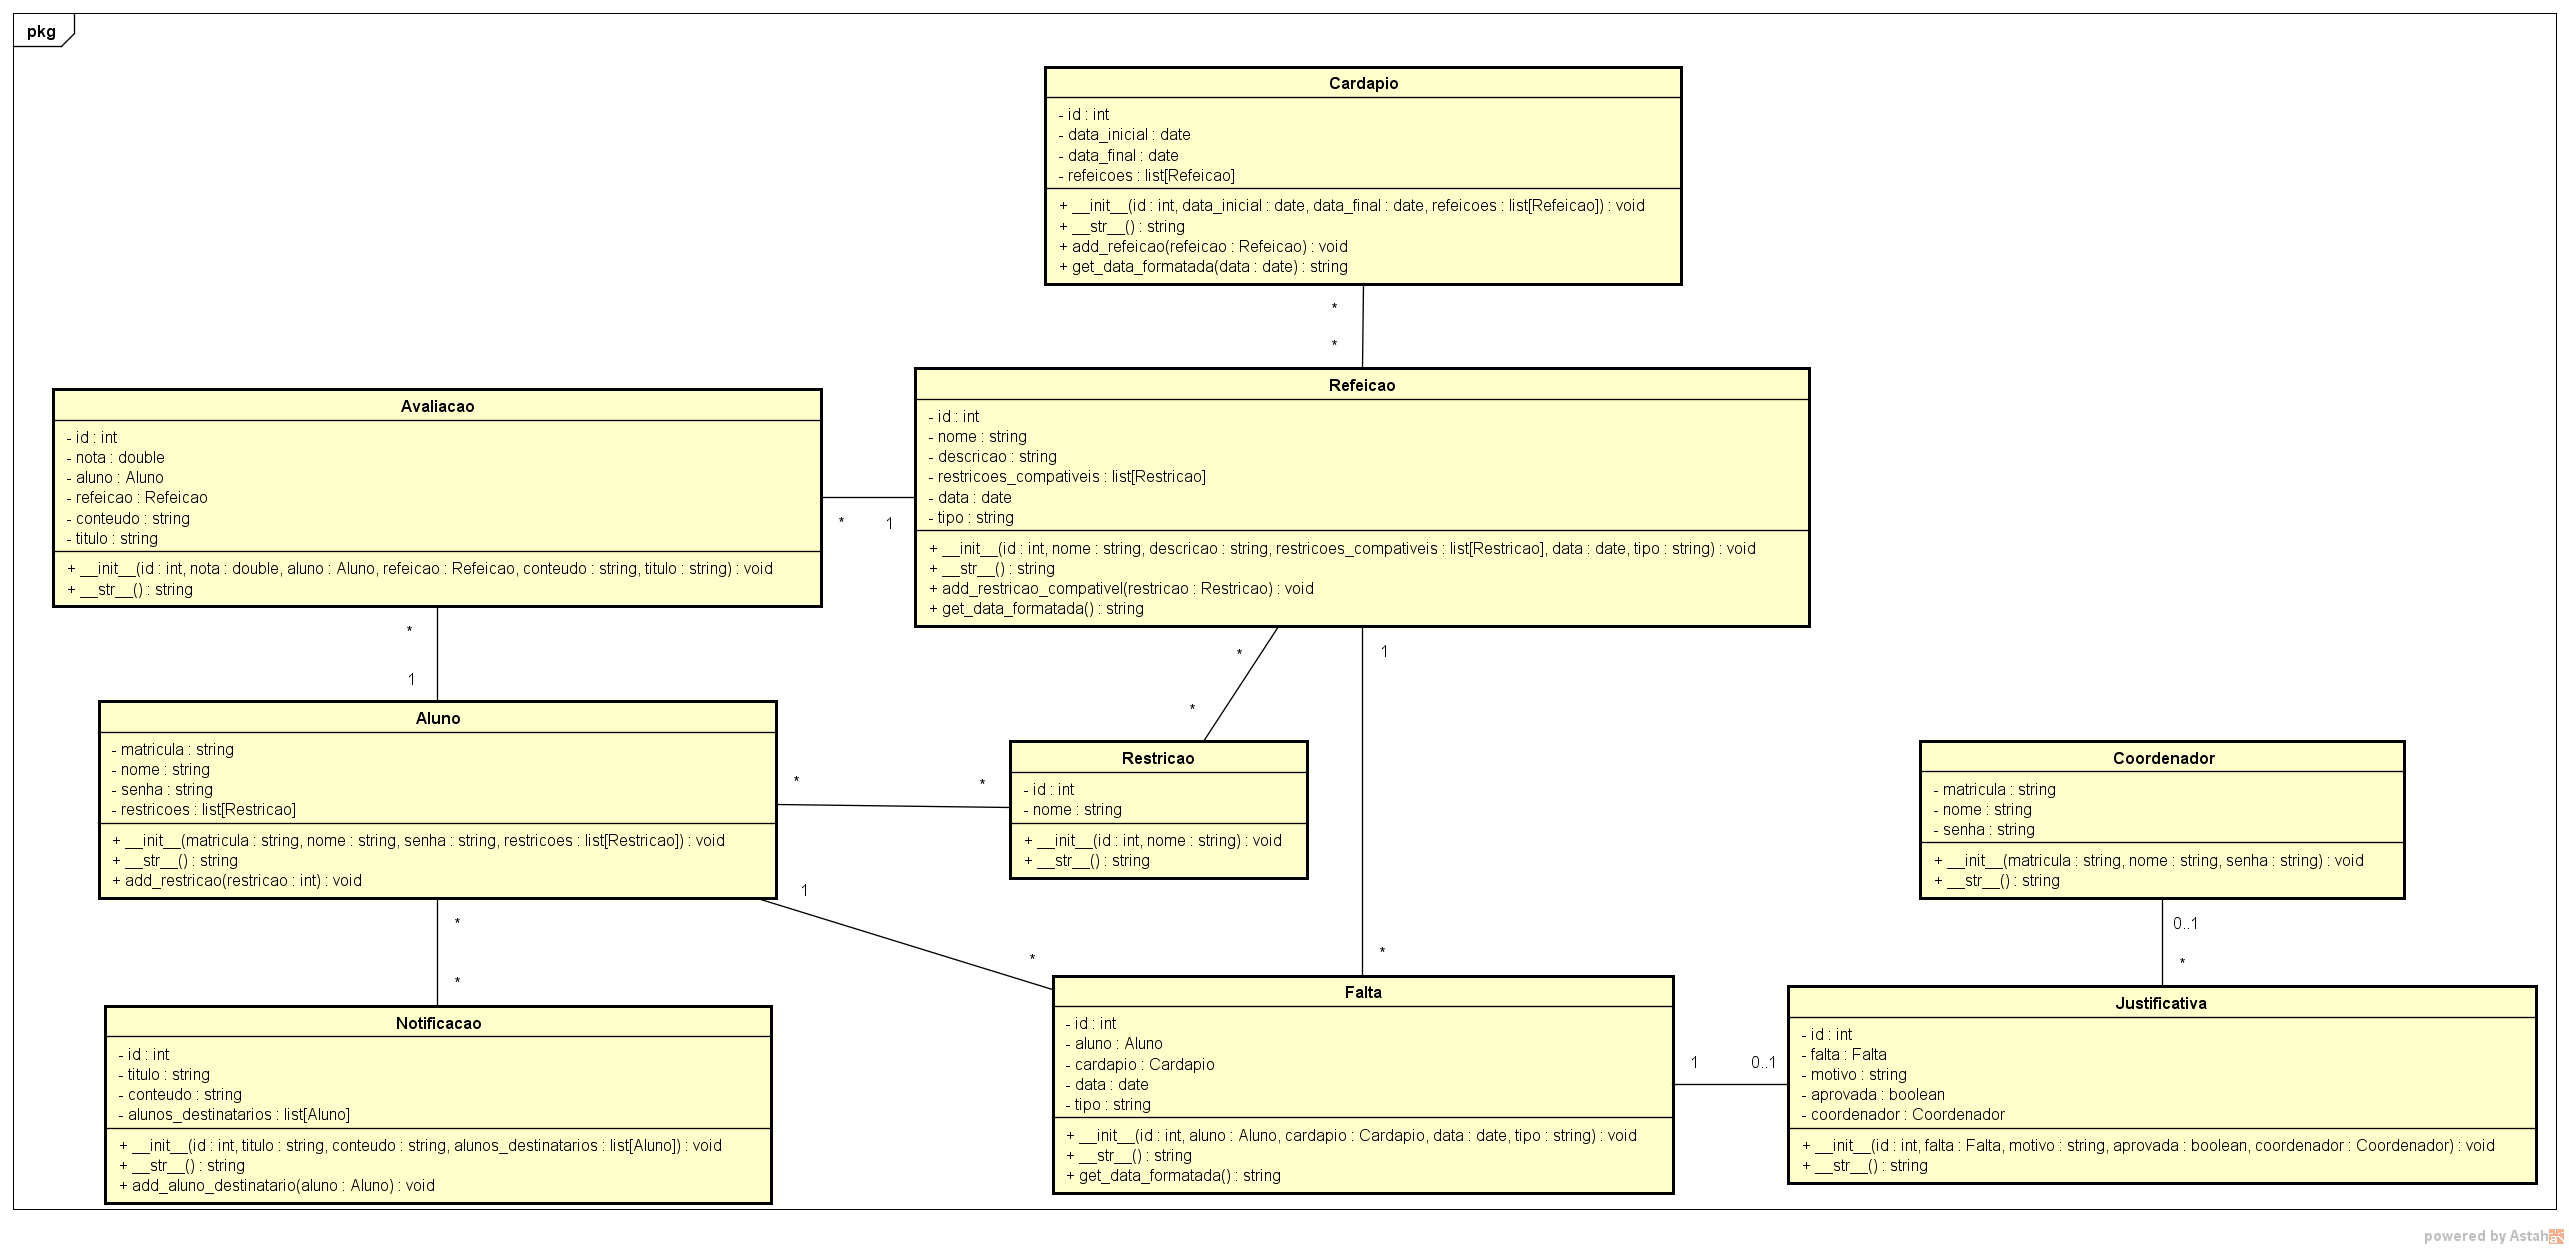
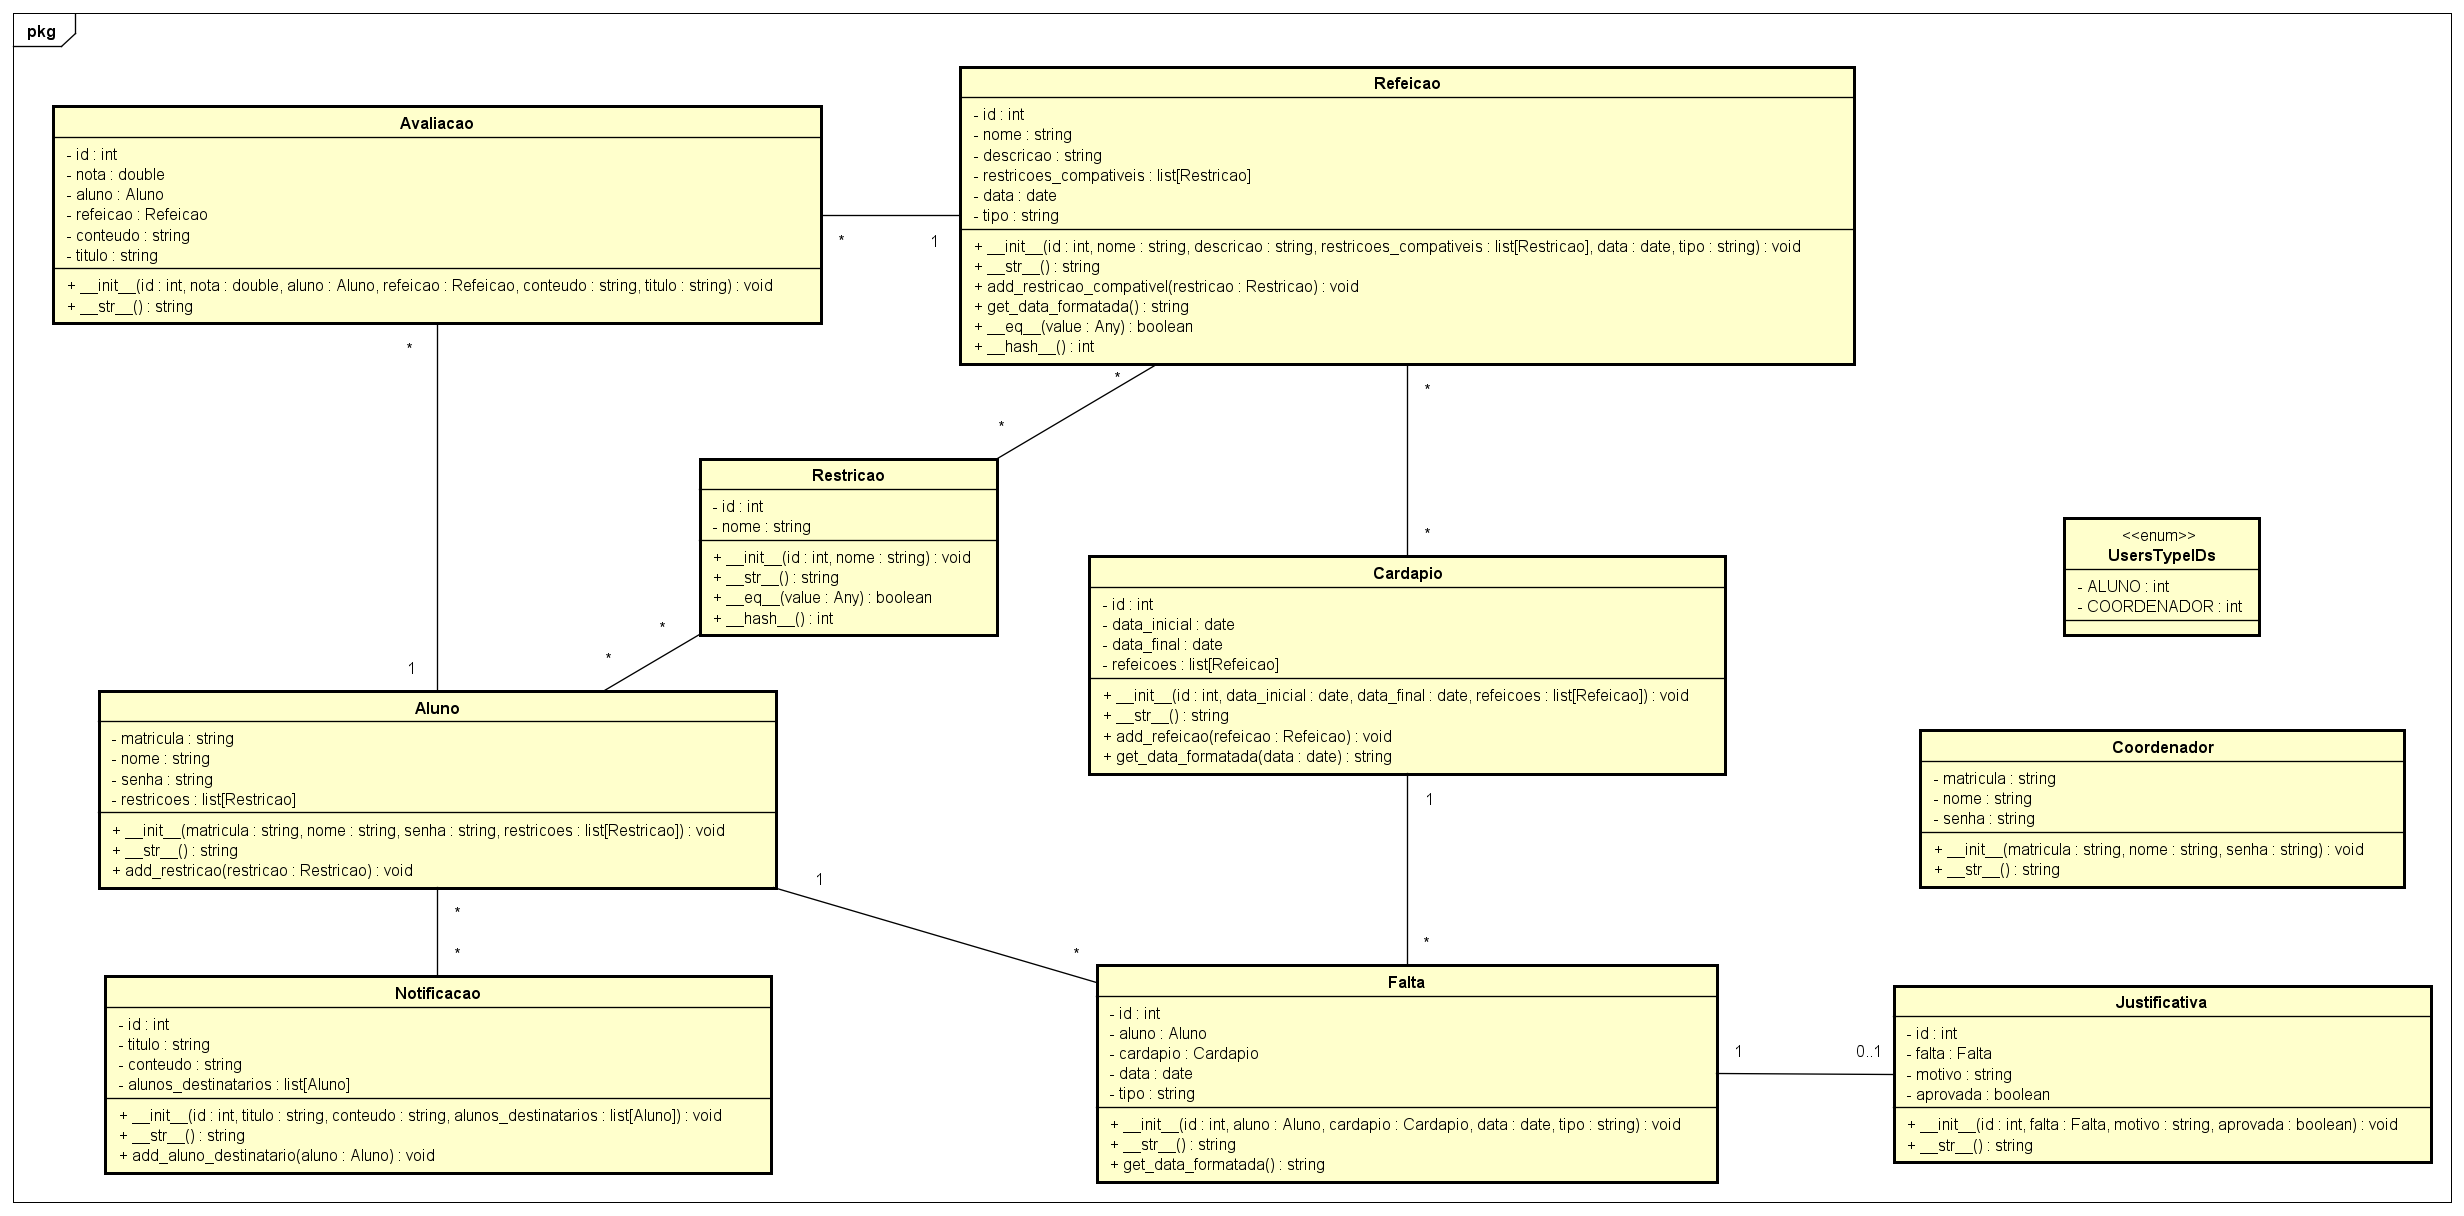
Diagramas de Classe

diff --git a/src/views.py b/src/views.py
@@ -177,7 +177,7 @@ class View:
         return View.get_all(FaltaDAO)
     
     @staticmethod
-    def falta_get_id(falta_id) -> Falta:
+    def falta_get_id(falta_id: int) -> Falta:
         return FaltaDAO.get(falta_id)
 
     @staticmethod
